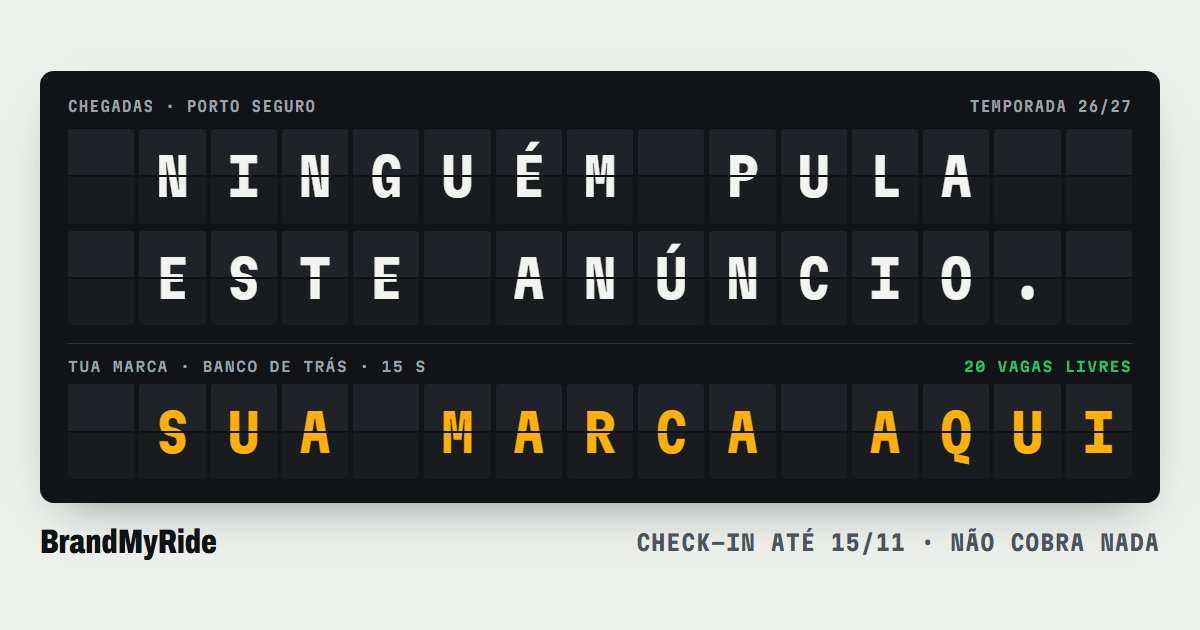
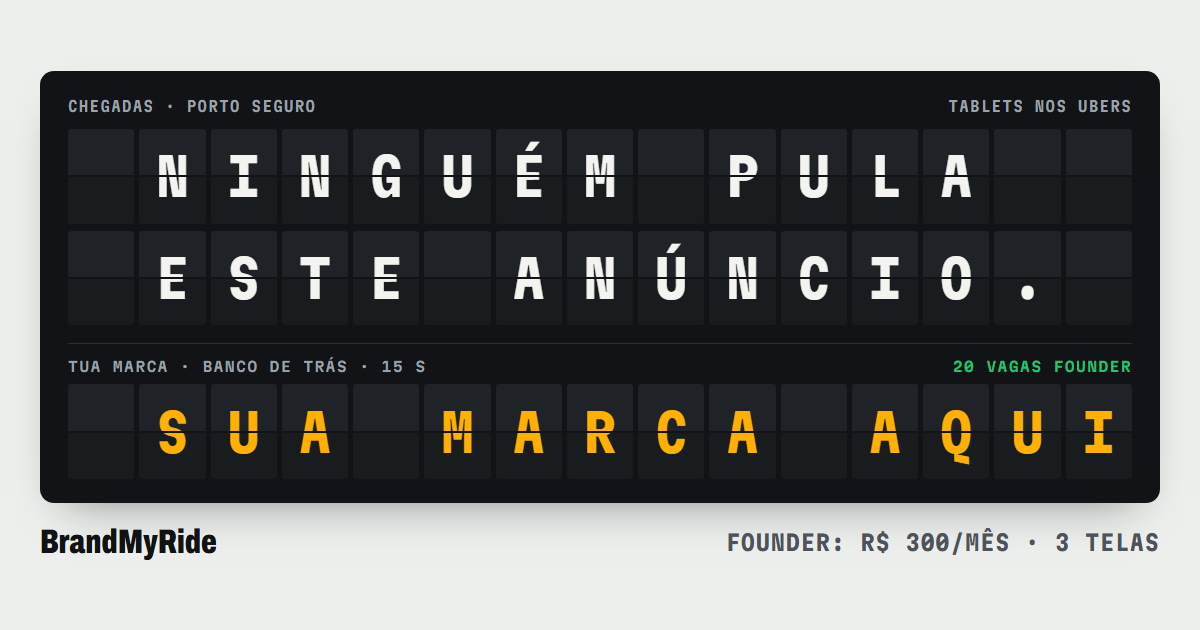
brandmyride: plano founder, conta do anunciante e painel de vagas ao vivo
Troca a temporada com prazo pelo modelo do ano todo: Founder a R$ 300/mês
em 3 telas (20 vagas), depois R$ 150 por tela e R$ 100 por tela extra.
Entra a seção com pessoas, impressões e CPM por plano, e o painel das 20
vagas passa a ler as reservas do CRM (vaga vermelha na hora, nome da marca
só com autorização e aprovação). O check-in ganha as perguntas de plano e
de autorização do painel.

Changed region(s): [[0.5242, 0.8444, 0.9867, 0.8746], [0.7708, 0.1508, 0.9558, 0.181], [0.8017, 0.573, 0.925, 0.6032]]

diff --git a/brandmyride/index.html b/brandmyride/index.html
@@ -4,13 +4,13 @@
 <meta charset="utf-8">
 <meta name="viewport" content="width=device-width, initial-scale=1, viewport-fit=cover">
 <title>BrandMyRide · Ninguém pula este anúncio</title>
-<meta name="description" content="Tablet no encosto dos carros de app de Porto Seguro, Arraial e Trancoso. 20 vagas de 15 segundos na temporada 26/27. Check-in sem pagar nada até 15/11.">
+<meta name="description" content="Tablet no encosto dos carros de app de Porto Seguro, rodando o ano todo. Plano Founder: R$ 300/mês por 3 telas, só 20 vagas. Check-in sem pagar nada agora.">
 <link rel="canonical" href="https://thallisribeiro.com.br/brandmyride/">
 <meta property="og:type" content="website">
 <meta property="og:locale" content="pt_BR">
 <meta property="og:url" content="https://thallisribeiro.com.br/brandmyride/">
 <meta property="og:title" content="Ninguém pula este anúncio.">
-<meta property="og:description" content="Tua marca no tablet do banco de trás dos carros de app de Porto Seguro. 20 vagas. Check-in até 15/11, sem pagar nada.">
+<meta property="og:description" content="Tua marca no tablet do banco de trás dos carros de app de Porto Seguro. Plano Founder: R$ 300/mês, 3 telas, só 20 vagas.">
 <meta property="og:image" content="https://thallisribeiro.com.br/brandmyride/og.png">
 <meta property="og:image:width" content="1200">
 <meta property="og:image:height" content="630">
@@ -161,10 +161,26 @@
 .vagas-board { margin-top: clamp(48px, 7vw, 88px); }
 .vagas { list-style: none; margin: 0; padding: 0; display: grid; grid-template-columns: repeat(5, minmax(0, 1fr)); gap: clamp(4px, 0.7cqi, 7px); }
 @media (min-width: 760px) { .vagas { grid-template-columns: repeat(10, minmax(0, 1fr)); } }
-.vagas li { position: relative; display: grid; grid-template-columns: auto minmax(0, 1fr); grid-template-rows: 1fr 1fr; align-items: center; gap: 12px 6px; padding: 10px 9px; border-radius: 4px; background: var(--flap); font: 700 0.82rem/1 var(--mono); font-stretch: 80%; font-variant-numeric: tabular-nums; color: var(--flap-ink); }
-.vagas li::after { content: ""; position: absolute; left: 0; right: 0; top: calc(50% - 1px); height: 2px; background: var(--board); }
-.vagas .t { justify-self: end; color: var(--board-label); font-weight: 500; font-size: 0.7rem; }
-.vagas .s { grid-column: 1 / -1; color: var(--green); font-size: 0.62rem; letter-spacing: 0.08em; }
+.vagas li { position: relative; display: grid; grid-template-columns: minmax(0, 1fr); align-content: start; gap: 5px; padding: 9px 8px; border-radius: 4px; background: var(--flap); font: 700 0.82rem/1 var(--mono); font-stretch: 80%; font-variant-numeric: tabular-nums; color: var(--flap-ink); }
+.vagas .s { font-size: 0.6rem; letter-spacing: 0.08em; color: var(--board-label); }
+.vagas .m { min-height: 1em; overflow: hidden; text-overflow: ellipsis; white-space: nowrap; font-size: 0.68rem; color: var(--flap-ink); }
+.vagas li.livre .s { color: var(--green); }
+.vagas li.tomada { background: #3a1c1e; }
+.vagas li.tomada .s { color: var(--red); }
+.conta-board { margin-top: clamp(32px, 5vw, 56px); padding: 0; overflow-x: auto; }
+.conta { width: 100%; border-collapse: collapse; font: 600 clamp(0.8rem, 1.35vw, 0.98rem)/1.35 var(--mono); font-stretch: 80%; font-variant-numeric: tabular-nums; text-transform: uppercase; letter-spacing: 0.02em; }
+.conta th, .conta td { padding: 15px clamp(12px, 2vw, 22px); text-align: left; border-bottom: 1px solid var(--board-edge); color: #9aa1a8; }
+.conta tr:last-child > * { border-bottom: 0; }
+.conta thead th { color: var(--board-label); font-size: 0.72em; letter-spacing: 0.12em; }
+.conta tr.destaque > * { color: var(--flap-ink); font-weight: 700; }
+@media (max-width: 640px) {
+  .conta thead { display: none; }
+  .conta tr { display: grid; grid-template-columns: repeat(3, minmax(0, 1fr)); gap: 8px 12px; padding: 14px 16px; border-bottom: 1px solid var(--board-edge); }
+  .conta tr:last-child { border-bottom: 0; }
+  .conta th, .conta td { padding: 0; border: 0; }
+  .conta tbody th { grid-column: 1 / -1; }
+  .conta td::before { content: attr(data-rot); display: block; margin-bottom: 3px; font-size: 0.6rem; letter-spacing: 0.12em; color: var(--board-label); }
+}
 
 .embarque .pass { margin-top: clamp(32px, 5vw, 56px); }
 .pass-top .rot-marca { display: inline-flex; align-items: center; gap: 0.6em; }
@@ -265,7 +281,7 @@
     <div class="board board-hero">
       <div class="board-head">
         <span><svg class="icon"><use href="#i-pouso"/></svg>Chegadas · Porto Seguro</span>
-        <span>Temporada 26/27</span>
+        <span>20 vagas founder</span>
       </div>
       <div class="flap-rows" data-painel="hero" aria-hidden="true"><p class="board-static">Ninguém pula este anúncio.</p></div>
       <div class="marca-bloco" aria-hidden="true">
@@ -275,7 +291,7 @@
     </div>
 
     <div class="heroi-baixo">
-      <p class="lead">É um tablet no encosto dos carros de app de Porto Seguro, Arraial e Trancoso. Tua marca a meio metro do rosto de quem acabou de desembarcar de férias, <b>a corrida inteira. Sem skip, sem adblock, sem algoritmo.</b></p>
+      <p class="lead">Tablet no encosto dos Ubers de Porto Seguro, rodando a tua marca pra quem senta atrás. A meio metro do rosto, <b>a corrida inteira. Sem skip, sem adblock, sem algoritmo.</b></p>
       <div class="checkin">
         <div class="campo">
           <label for="marca">Digita tua marca e vê ela no painel</label>
@@ -284,9 +300,9 @@
         <div class="cta-linha">
           <a class="btn" href="reservar/" data-checkin>Fazer check-in da minha marca <svg class="icon"><use href="#i-seta"/></svg></a>
         </div>
-        <p class="micro">60 segundos. Não cobra nada. São só 20 vagas.</p>
+        <p class="micro">Plano Founder: R$ 300/mês, 3 telas. O check-in não cobra nada.</p>
         <div class="contagem">
-          <span class="contagem-rot"><svg class="icon"><use href="#i-relogio"/></svg>Check-in fecha 15/11 às 23:59 em</span>
+          <span class="contagem-rot"><svg class="icon"><use href="#i-play"/></svg>Vagas founder livres agora</span>
           <div class="board"><div class="flap-rows" data-painel="contagem" aria-hidden="true"></div></div>
           <span class="sr" data-contagem-texto></span>
         </div>
@@ -357,18 +373,36 @@
             <div><dt>Som</dt><dd>Nenhum. Só imagem e legenda.</dd></div>
             <div><dt>Tela</dt><dd>Virada pro banco de trás, fora da visão do motorista.</dd></div>
             <div><dt>Medição</dt><dd>QR só teu, com contador de scans.</dd></div>
-            <div><dt>Temporada</dt><dd>Dezembro a fevereiro: réveillon, férias e carnaval.</dd></div>
+            <div><dt>Quando</dt><dd>O ano todo. Começa com 3 Ubers em Porto Seguro.</dd></div>
           </dl>
         </div>
       </div>
       <div class="board vagas-board">
-        <div class="board-head"><span><svg class="icon"><use href="#i-play"/></svg>Vagas do loop · temporada 26/27</span><span>20 livres</span></div>
+        <div class="board-head"><span><svg class="icon"><use href="#i-play"/></svg>Vagas founder · R$ 300/mês, 3 telas</span><span data-vagas-total>20 vagas</span></div>
         <ol class="vagas" data-vagas></ol>
       </div>
     </div>
   </section>
 
-  <section class="secao embarque faixa" aria-labelledby="t-embarque">
+  <section class="secao faixa" aria-labelledby="t-conta">
+    <div class="wrap">
+      <h2 id="t-conta" class="display">A conta do anunciante.</h2>
+      <div class="texto"><p>Cada tela faz umas 30 corridas por dia, com 1,7 passageiro em média. Numa corrida de 10 minutos, tua marca aparece 2 vezes. Dá umas <b>1.500 pessoas e 3.000 impressões por mês, por tela</b>.</p></div>
+      <div class="board conta-board">
+        <table class="conta">
+          <thead><tr><th scope="col">Plano</th><th scope="col">Por mês</th><th scope="col">Telas</th><th scope="col">Pessoas/mês</th><th scope="col">Impressões/mês</th><th scope="col">CPM</th></tr></thead>
+          <tbody>
+            <tr class="destaque"><th scope="row">Founder · 20 vagas</th><td data-rot="Por mês">R$ 300</td><td data-rot="Telas">3</td><td data-rot="Pessoas/mês">~4.600</td><td data-rot="Impressões/mês">~9.200</td><td data-rot="CPM">~R$ 33</td></tr>
+            <tr><th scope="row">1 tela</th><td data-rot="Por mês">R$ 150</td><td data-rot="Telas">1</td><td data-rot="Pessoas/mês">~1.500</td><td data-rot="Impressões/mês">~3.000</td><td data-rot="CPM">~R$ 49</td></tr>
+            <tr><th scope="row">5 telas</th><td data-rot="Por mês">R$ 550</td><td data-rot="Telas">5</td><td data-rot="Pessoas/mês">~7.600</td><td data-rot="Impressões/mês">~15.300</td><td data-rot="CPM">~R$ 36</td></tr>
+          </tbody>
+        </table>
+      </div>
+      <p class="tarifa">Depois das 20 vagas founder: <b>R$ 150 pela primeira tela e R$ 100 por tela extra.</b> Cada tela tem só 20 vagas, então tua marca sempre aparece 2 vezes por corrida. Tudo estimativa até os tablets rodarem; o relatório do mês mostra exibição e scan de verdade.</p>
+    </div>
+  </section>
+
+  <section class="secao embarque" aria-labelledby="t-embarque">
     <div class="wrap">
       <h2 id="t-embarque" class="display">O que vem no teu embarque.</h2>
       <article class="pass" aria-label="Cartão de embarque com o que tua marca leva">
@@ -378,15 +412,15 @@
             <div class="wide"><dt>Passageiro</dt><dd><span class="marca-p" data-marca>Tua marca</span></dd></div>
             <div><dt>De</dt><dd>Tua timeline</dd></div>
             <div><dt>Para</dt><dd>Banco de trás</dd></div>
-            <div><dt>Embarque</dt><dd class="num">01 DEZ 2026</dd></div>
-            <div><dt>Volta</dt><dd class="num">FEV 2027</dd></div>
+            <div><dt>Plano</dt><dd>Founder</dd></div>
+            <div><dt>Telas</dt><dd class="num">3</dd></div>
             <div><dt>Assento</dt><dd>Vaga de 15 s</dd></div>
-            <div><dt>Tarifa</dt><dd>Você diz</dd></div>
+            <div><dt>Tarifa</dt><dd class="num">R$ 300/mês</dd></div>
           </dl>
           <div class="bagagem">
             <p class="bag-t">Bagagem inclusa</p>
             <ul>
-              <li><svg class="icon"><use href="#i-play"/></svg>15 segundos no loop, de dezembro a fevereiro</li>
+              <li><svg class="icon"><use href="#i-play"/></svg>15 segundos no loop de 3 telas, 2 vezes por corrida, o ano todo</li>
               <li><svg class="icon"><use href="#i-qr"/></svg>QR code só teu, com contador de scans</li>
             </ul>
             <p class="bag-t bag-t2">A confirmar antes de cobrar</p>
@@ -400,13 +434,13 @@
         <div class="pass-stub">
           <dl>
             <div><dt>Portão</dt><dd>Check-in</dd></div>
-            <div><dt>Fecha</dt><dd class="num">15 NOV 23:59</dd></div>
+            <div><dt>Vigência</dt><dd>Ano todo</dd></div>
             <div><dt>Vagas</dt><dd class="num">20</dd></div>
           </dl>
           <div class="barcode" data-barcode></div>
         </div>
       </article>
-      <p class="tarifa"><b>Tarifa? Você diz.</b> Ainda não tem tabela. No check-in você fala quanto isso vale pra tua marca. Com as respostas eu fecho o preço e te mando antes de cobrar qualquer coisa.</p>
+      <p class="tarifa">O check-in não cobra nada. Eu te chamo no WhatsApp pra fechar e combinar a arte.</p>
     </div>
   </section>
 
@@ -429,10 +463,10 @@
     <div class="wrap regras-grid">
       <h2 id="t-regras" class="display">Regras do voo.</h2>
       <ul class="regras">
-        <li><strong>20 vagas, nenhuma a mais.</strong><span>O loop tem 5 minutos. A 21ª marca não cabe sem piorar a vez de todo mundo.</span></li>
-        <li><strong>Check-in até 15/11, 23:59.</strong><span>Depois disso o painel fecha.</span></li>
-        <li><strong>10 check-ins fazem o voo decolar.</strong><span>Com 10 marcas, os tablets vão pra rua em dezembro.</span></li>
-        <li><strong>Voo cancelado, ninguém paga.</strong><span>Se não fechar 10 marcas, ninguém paga nada e eu conto aqui no X o que deu errado.</span></li>
+        <li><strong>20 vagas founder, nenhuma a mais.</strong><span>Cada tela tem 20 vagas de 15 s. Os 20 founders enchem as 3 primeiras telas.</span></li>
+        <li><strong>Founder paga R$ 300/mês e aparece em 3 telas.</strong><span>Depois das 20 vagas, é R$ 150 pela primeira tela e R$ 100 por tela extra.</span></li>
+        <li><strong>2 vezes por corrida, sempre.</strong><span>Nunca mais de 20 marcas por tela, então tua marca não perde espaço quando a frota cresce.</span></li>
+        <li><strong>Check-in não cobra nada.</strong><span>Eu te chamo no WhatsApp pra fechar. Quem reservou já aparece em vermelho no painel de vagas.</span></li>
         <li><strong>Sem propaganda política.</strong><span>Ela é proibida em carro de app.</span></li>
       </ul>
     </div>
@@ -445,22 +479,22 @@
         <details><summary>O turista olha pra tela ou pro celular?<svg class="icon"><use href="#i-mais"/></svg></summary><p>Muita gente olha o celular, e tudo bem. É por isso que cada marca tem um QR com oferta: quem se interessa escaneia, e você vê o número. Não vendo atenção imaginária.</p></details>
         <details><summary>Tem som?<svg class="icon"><use href="#i-mais"/></svg></summary><p>Não. Motorista que escuta o mesmo loop 10 horas por dia desliga o tablet no segundo dia. É só imagem e legenda.</p></details>
         <details><summary>E se o motorista desligar o tablet?<svg class="icon"><use href="#i-mais"/></svg></summary><p>O motorista ganha por hora de tablet ligado, e o sistema registra quando a tela ficou acesa. Desligado, ele não ganha.</p></details>
-        <details><summary>Quanto custa?<svg class="icon"><use href="#i-mais"/></svg></summary><p>Você diz no check-in quanto faria sentido pagar. Com as respostas eu fecho uma tarifa e te mando antes de cobrar qualquer coisa.</p></details>
+        <details><summary>Quanto custa?<svg class="icon"><use href="#i-mais"/></svg></summary><p>Founder: R$ 300 por mês pra aparecer em 3 telas, só pras 20 primeiras marcas. Depois, R$ 150 pela primeira tela e R$ 100 por tela extra.</p></details>
         <details><summary>É da Uber ou da 99?<svg class="icon"><use href="#i-mais"/></svg></summary><p>Não. É um projeto independente, nos carros de motoristas parceiros que rodam nesses apps. Não tem vínculo com as empresas.</p></details>
-        <details><summary>Quando começa?<svg class="icon"><use href="#i-mais"/></svg></summary><p>Em dezembro de 2026, se 10 marcas fizerem check-in até 15/11.</p></details>
+        <details><summary>Quando começa?<svg class="icon"><use href="#i-mais"/></svg></summary><p>Começa com 3 Ubers em Porto Seguro e roda o ano todo. Cada tela nova abre mais 20 vagas.</p></details>
       </div>
     </div>
   </section>
 
   <section class="final" aria-labelledby="t-final">
     <div class="wrap">
-      <h2 id="t-final" class="display final-t">Imagina abrir o X em janeiro e ver tua marca rodando num carro em Trancoso.</h2>
+      <h2 id="t-final" class="display final-t">Imagina abrir o X e ver tua marca rodando num carro em Trancoso.</h2>
       <div class="cta-linha">
         <a class="btn" href="reservar/" data-checkin>Fazer check-in da minha marca <svg class="icon"><use href="#i-seta"/></svg></a>
       </div>
       <p class="micro" style="margin-top:14px">60 segundos. Não cobra nada.</p>
       <div class="contagem">
-        <span class="contagem-rot"><svg class="icon"><use href="#i-relogio"/></svg>Check-in fecha 15/11 às 23:59 em</span>
+        <span class="contagem-rot"><svg class="icon"><use href="#i-play"/></svg>Vagas founder livres agora</span>
         <div class="board"><div class="flap-rows" data-painel="contagem-final" aria-hidden="true"></div></div>
       </div>
       <p class="quem">Quem tá por trás: Thallis Ribeiro, criador do LicitaCerta, o radar de licitações no WhatsApp que já tem assinante pagando, e também do TeAfeta, do PeopleAds e do Grana. Administrador pela UFV, MBA em Gestão Financeira pela FGV. O BrandMyRide é o próximo, construído em público no <a href="https://x.com/thallisribeiro">@thallisribeiro</a>.</p>
@@ -534,23 +568,50 @@
     if (window.gtag) gtag('event', 'checkin_inicio', { marca_digitada: !!marca.trim() });
   }));
 
-  // Contagem até o fechamento do check-in
-  const PRAZO = Date.parse('2026-11-15T23:59:00-03:00');
+  // Vagas founder: o painel lê as reservas da planilha. O nome da marca só aparece depois de aprovado no CRM.
+  const ENDPOINT = 'https://script.google.com/macros/s/AKfycbzFZF0TiJ2dsRhFk8ViX7uBbAaOhL4kN3lpqiyuGkKzGFMwCLERYJWrjrJo1fOB6mQc/exec';
+  const TOTAL = 20;
   const contagem = Painel(document.querySelector('[data-painel="contagem"]'));
   const contagemFinal = Painel(document.querySelector('[data-painel="contagem-final"]'));
-  let finalVisto = false;
   const contagemTexto = document.querySelector('[data-contagem-texto]');
-  function tique(inst) {
-    const ms = Math.max(0, PRAZO - Date.now());
-    const d = Math.floor(ms / 864e5), h = Math.floor(ms % 864e5 / 36e5), m = Math.floor(ms % 36e5 / 6e4);
-    const dois = n => String(n).padStart(2, '0');
-    const txt = [ms ? dois(d) + 'D ' + dois(h) + 'H ' + dois(m) + 'M' : 'ENCERRADO'];
-    contagem.escreve(txt, { cols: 11, escalonado: 45, instantaneo: inst, atraso: 900 });
-    if (finalVisto) contagemFinal.escreve(txt, { cols: 11, escalonado: 45 });
-    contagemTexto.textContent = ms ? d + ' dias, ' + h + ' horas e ' + m + ' minutos' : 'Check-in encerrado';
+  const vagasEl = document.querySelector('[data-vagas]');
+  const totalEl = document.querySelector('[data-vagas-total]');
+  let finalVisto = false;
+  let livresTxt = null;
+  function desenhaVagas(lista) {
+    vagasEl.textContent = '';
+    for (let i = 0; i < TOTAL; i++) {
+      const v = lista ? lista[i] : undefined;
+      const li = document.createElement('li');
+      li.className = !lista ? '' : v ? 'tomada' : 'livre';
+      const n = document.createElement('span');
+      n.textContent = String(i + 1).padStart(2, '0');
+      const st = document.createElement('span');
+      st.className = 's';
+      st.textContent = !lista ? '···' : v ? 'RESERVADA' : 'LIVRE';
+      const mk = document.createElement('span');
+      mk.className = 'm';
+      mk.textContent = v && v.marca ? v.marca : '';
+      li.append(n, st, mk);
+      vagasEl.append(li);
+    }
   }
-  tique(false);
-  setInterval(() => tique(false), 20000);
+  function tique(inst) {
+    if (livresTxt == null) return;
+    contagem.escreve([livresTxt], { cols: 11, escalonado: 45, instantaneo: inst, atraso: 600 });
+    if (finalVisto) contagemFinal.escreve([livresTxt], { cols: 11, escalonado: 45 });
+  }
+  desenhaVagas(null);
+  fetch(ENDPOINT).then(r => r.json()).then(j => {
+    if (!j || !Array.isArray(j.vagas)) throw new Error('sem vagas');
+    const tomadas = Math.min(TOTAL, j.reservadas || j.vagas.length);
+    const livres = TOTAL - tomadas;
+    desenhaVagas(Array.from({ length: TOTAL }, (_, i) => i < tomadas ? (j.vagas[i] || {}) : null));
+    livresTxt = livres ? ' ' + String(livres).padStart(2, '0') + ' LIVRES' : ' ESGOTADO';
+    totalEl.textContent = tomadas + ' reservadas · ' + livres + ' livres';
+    contagemTexto.textContent = livres + ' de 20 vagas founder livres';
+    tique(false);
+  }).catch(() => { totalEl.textContent = '20 vagas'; });
 
   // Relógio de Porto Seguro
   const relogio = document.querySelector('[data-relogio]');
@@ -588,14 +649,6 @@
     barra.style.transform = 'scaleX(' + ((15 - s) / 15) + ')';
   }, 1000);
 
-  // As 20 vagas
-  const vagas = document.querySelector('[data-vagas]');
-  for (let i = 0; i < 20; i++) {
-    const t = i * 15;
-    const li = document.createElement('li');
-    li.innerHTML = '<span>' + String(i + 1).padStart(2, '0') + '</span><span class="t">' + Math.floor(t / 60) + ':' + String(t % 60).padStart(2, '0') + '</span><span class="s">LIVRE</span>';
-    vagas.append(li);
-  }
 
   // A contagem do fim vira quando aparece
   new IntersectionObserver((entradas, obs) => {

diff --git a/brandmyride/reservar/index.html b/brandmyride/reservar/index.html
@@ -9,7 +9,7 @@
 <link rel="canonical" href="https://thallisribeiro.com.br/brandmyride/reservar/">
 <meta property="og:type" content="website">
 <meta property="og:title" content="Check-in da tua marca · BrandMyRide">
-<meta property="og:description" content="20 vagas de 15 segundos nos tablets dos carros de app de Porto Seguro. Check-in até 15/11, sem pagar nada.">
+<meta property="og:description" content="Plano Founder: R$ 300/mês pra tua marca rodar em 3 tablets dos carros de app de Porto Seguro. Só 20 vagas. Check-in sem pagar nada.">
 <meta property="og:image" content="https://thallisribeiro.com.br/brandmyride/og.png">
 <meta name="twitter:card" content="summary_large_image">
 <meta name="theme-color" content="#111316">
@@ -150,11 +150,12 @@ body { min-height: 100svh; display: flex; flex-direction: column; }
     { id: 'segmento', tipo: 'escolha', titulo: d => 'O que a ' + d.marca + ' vende?', opcoes: ['App ou SaaS pra consumidor', 'SaaS pra empresa (B2B)', 'Produto físico ou e-commerce', 'Turismo, bar ou restaurante', 'Outra coisa'] },
     { id: 'publico', tipo: 'escolha', titulo: () => 'Quem você quer que veja?', opcoes: ['Turista chegando de férias', 'Morador da região', 'Os dois'] },
     { id: 'objetivo', tipo: 'escolha', titulo: () => 'O que seria vitória pra você?', opcoes: ['Download ou cadastro pelo QR', 'Venda com cupom', 'Marca na cabeça do turista', 'Foto da minha marca num carro na Bahia pra postar'] },
-    { id: 'faixa', tipo: 'escolha', titulo: () => 'Quanto faria sentido pagar por mês, na temporada?', ajuda: 'Não é compromisso. É o que vai definir a tarifa.', opcoes: ['Até R$ 300', 'R$ 300 a R$ 700', 'R$ 700 a R$ 1.500', 'Mais de R$ 1.500'] },
+    { id: 'faixa', tipo: 'escolha', titulo: () => 'Qual plano?', ajuda: 'Founder tem só 20 vagas. Ninguém paga nada agora.', opcoes: ['Founder: R$ 300/mês, 3 telas', '1 tela: R$ 150/mês', 'Mais telas: R$ 150 + R$ 100 por tela extra'] },
+    { id: 'painel', tipo: 'escolha', titulo: d => 'Pode mostrar a ' + d.marca + ' no painel de vagas?', ajuda: 'O painel da página mostra quem já reservou. Se preferir, aparece só "reservada".', opcoes: ['Pode mostrar', 'Prefiro só "reservada"'] },
     { id: 'nome', tipo: 'text', titulo: () => 'E o teu nome?', ph: 'Nome', max: 60, auto: 'name', obrig: true },
     { id: 'whatsapp', tipo: 'tel', titulo: d => primeiro(d.nome) + ', qual teu WhatsApp?', ajuda: 'É por lá que eu te chamo pra fechar.', ph: '(73) 99999-9999', max: 20, auto: 'tel', obrig: true },
-    { id: 'email', tipo: 'email', titulo: () => 'E um e-mail, se quiser.', ajuda: 'Pra receber o resultado de 15/11. Pode pular.', ph: 'voce@marca.com', max: 120, auto: 'email', obrig: false },
-    { id: 'confere', tipo: 'revisao', titulo: () => 'Confere teu cartão de embarque.', ajuda: 'Tudo certo? Confirma e tua marca entra na lista do voo de dezembro.' },
+    { id: 'email', tipo: 'email', titulo: () => 'E um e-mail, se quiser.', ajuda: 'Pra receber a proposta e o relatório. Pode pular.', ph: 'voce@marca.com', max: 120, auto: 'email', obrig: false },
+    { id: 'confere', tipo: 'revisao', titulo: () => 'Confere teu cartão de embarque.', ajuda: 'Tudo certo? Confirma e tua marca ocupa uma vaga no painel.' },
   ];
 
   const $ = s => document.querySelector(s);
@@ -213,14 +214,14 @@ body { min-height: 100svh; display: flex; flex-direction: column; }
           '<div><dt>Vende</dt><dd>' + esc(d.segmento) + '</dd></div>' +
           '<div><dt>Quer alcançar</dt><dd>' + esc(d.publico) + '</dd></div>' +
           '<div><dt>Vitória</dt><dd>' + esc(d.objetivo) + '</dd></div>' +
-          '<div class="wide"><dt>Tarifa</dt><dd>' + esc(d.faixa).replace(/R\$ /g, 'R$\u00a0') + '\u00a0/\u00a0mês</dd></div>' +
+          '<div class="wide"><dt>Plano</dt><dd>' + esc(d.faixa).replace(/R\$ /g, 'R$\u00a0') + '</dd></div>' +
           '<div><dt>WhatsApp</dt><dd class="num">' + esc(d.whatsapp) + '</dd></div>' +
           (d.email ? '<div><dt>E-mail</dt><dd>' + esc(d.email) + '</dd></div>' : '') +
           (d.site ? '<div><dt>Site ou @</dt><dd>' + esc(d.site) + '</dd></div>' : '') +
         '</dl>' +
       '</div>' +
       '<div class="pass-stub"><dl>' +
-        '<div><dt>Embarque</dt><dd class="num">01 DEZ 2026</dd></div>' +
+        '<div><dt>Vigência</dt><dd>Ano todo</dd></div>' +
         '<div><dt>Assento</dt><dd>Vaga de 15 s</dd></div>' +
         '<div><dt>Status</dt><dd class="status' + (confirmado ? ' ok' : '') + '">' + (confirmado ? 'Confirmado' : 'A confirmar') + '</dd></div>' +
       '</dl><div class="barcode" data-barcode></div></div>' +
@@ -265,7 +266,7 @@ body { min-height: 100svh; display: flex; flex-direction: column; }
     } else if (p.tipo === 'revisao') {
       resp.innerHTML = cartao(dados, false);
       window.BMR.codigoBarras(resp.querySelector('[data-barcode]'), dados.marca);
-      $('#dica').textContent = 'Não cobra nada. Fecha em 15/11.';
+      $('#dica').textContent = 'Não cobra nada agora.';
     } else {
       resp.innerHTML = '<label class="sr" for="entrada">' + esc(p.titulo(dados)) + '</label>' +
         '<input class="entrada" id="entrada" type="' + (p.tipo === 'text' ? 'text' : p.tipo) + '" maxlength="' + p.max + '" autocomplete="' + p.auto + '" placeholder="' + esc(p.ph) + '"' +
@@ -353,11 +354,11 @@ body { min-height: 100svh; display: flex; flex-direction: column; }
   function sucesso(d) {
     progresso(PASSOS.length);
     [...trilho.children].forEach(t => { t.className = 'feito'; });
-    const texto = 'Fiz check-in da ' + d.marca + ' no BrandMyRide: tablet no banco de trás dos carros de app de Porto Seguro na temporada. São 20 vagas e fecha 15/11. Ideia do @thallisribeiro\nhttps://thallisribeiro.com.br/brandmyride/';
+    const texto = 'Fiz check-in da ' + d.marca + ' no BrandMyRide: tablet no banco de trás dos carros de app de Porto Seguro. Só 20 vagas de founder. Ideia do @thallisribeiro\nhttps://thallisribeiro.com.br/brandmyride/';
     $('#palco').innerHTML =
       '<section class="sucesso">' +
         '<h1 class="display" tabindex="-1" id="feito">Check-in feito, ' + esc(primeiro(d.nome)) + '.</h1>' +
-        '<p class="ajuda">A ' + esc(d.marca) + ' está na lista do voo de dezembro. Até 15/11 eu te chamo no WhatsApp com o resultado: com 10 marcas, a gente fecha tarifa e arte. Sem 10, ninguém paga nada.</p>' +
+        '<p class="ajuda">A ' + esc(d.marca) + ' já ocupa uma vaga no painel. Eu te chamo no WhatsApp pra fechar e combinar a arte. O check-in não cobra nada.</p>' +
         cartao(d, true) +
         '<div class="acoes">' +
           '<a class="btn" href="https://twitter.com/intent/tweet?text=' + encodeURIComponent(texto) + '" target="_blank" rel="noopener">Postar no X<svg class="icon"><use href="#i-seta"/></svg></a>' +

diff --git a/brandmyride/assets/base.css b/brandmyride/assets/base.css
@@ -15,6 +15,7 @@
   --amber: #ffb000;
   --amber-ink: #1a1400;
   --green: #25c46e;
+  --red: #ff5a52;       /* status: vaga reservada */
   --paper: #f8f9f7;
   --thermal: #2c2f33;
   --field: #ffffff;
